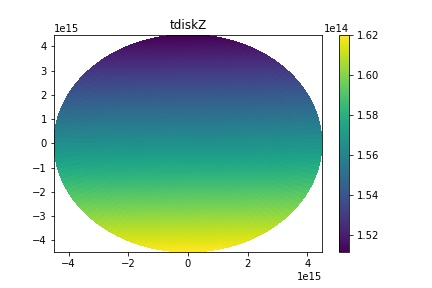
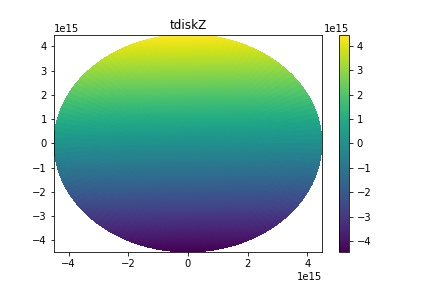
warp; switched sines and cosines to correctly project disk

diff --git a/Warp/disk_ecc_warp.py b/Warp/disk_ecc_warp.py
@@ -805,8 +805,8 @@ class Disk:
 
         #tdiskY = (Y.repeat(self.nz).reshape(self.nphi,self.nr,self.nz))*self.costhet-zsky*self.sinthet
         '''based on rotational matrix'''
-        tdiskY = (y_full_rt_grid*self.sinthet - z_full_rt_grid*self.costhet)
-        tdiskZ = (y_full_rt_grid*self.costhet - z_full_rt_grid*self.sinthet)
+        tdiskY = (y_full_rt_grid*self.costhet - z_full_rt_grid*self.sinthet)
+        tdiskZ = (y_full_rt_grid*self.sinthet - z_full_rt_grid*self.costhet)
 
         #tdiskZ = (Z.repeat(self.nz).reshape(self.nphi,self.nr,self.nz) - tdiskY*self.sinthet)*self.costhet
         print("tdiskZ shape" + str(tdiskZ.shape))
@@ -814,11 +814,14 @@ class Disk:
         print("tdiskZ max " + str(np.max(tdiskZ)))
 
         plt.plot(tdiskY[:,:,0], tdiskZ[:,:,0])
-        plt.title("sky grid")
+        plt.plot(tdiskY[:,:,10], tdiskZ[:,:,-1])
+        plt.title("sky grid 2 y by z")
         plt.show()
 
-        plt.plot(tdiskY[:,:,10], tdiskZ[:,:,10])
-        plt.title("sky grid 2")
+
+        plt.pcolor(x_full_rt_grid[:,:,0], tdiskY[:,:,0], tdiskZ[:,:,0])
+        plt.title("sky grid 3 x by y")
+        plt.colorbar()
         plt.show()
 
         if (self.thet<np.pi/2) & (self.thet>0):
@@ -839,8 +842,8 @@ class Disk:
         #if self.thet > np.arctan(self.Aout/self.zmax):
         #    tdiskZ -=(Y*self.sinthet).repeat(self.nz).reshape(self.nphi,self.nr,self.nz)
         #tdiskY = ytop - self.sinthet*S + (Y/self.costhet).repeat(self.nz).reshape(self.nphi,self.nr,self.nz)
-        tr = np.sqrt(X.repeat(self.nz).reshape(self.nphi,self.nr,self.nz)**2+tdiskY**2)
-        tphi = np.arctan2(tdiskY,X.repeat(self.nz).reshape(self.nphi,self.nr,self.nz))%(2*np.pi)
+        tr = np.sqrt(X.repeat(self.nz).reshape(self.nr,self.nphi,self.nz)**2+tdiskY**2)
+        tphi = np.arctan2(tdiskY,X.repeat(self.nz).reshape(self.nr,self.nphi,self.nz))%(2*np.pi)
 
         plt.pcolor(X, Y, tdiskZ[:,:,0])
         plt.title("tdiskZ")
@@ -894,10 +897,10 @@ class Disk:
 
         #print("index interp {t}".format(t=time.clock()-tst))
         ###### fixed T,Omg,rhoG still need to work on zpht ######
-        tT = ndimage.map_coordinates(self.tempg,[[aind],[phiind],[zind]],order=1,cval=1e-18).reshape(self.nphi,self.nr,self.nz) #interpolate onto coordinates xind,yind #tempg
+        tT = ndimage.map_coordinates(self.tempg,[[aind],[phiind],[zind]],order=1,cval=1e-18).reshape(self.nr,self.nphi,self.nz) #interpolate onto coordinates xind,yind #tempg
         #Omgx = ndimage.map_coordinates(self.Omg0[0],[[aind],[phiind],[zind]],order=1,cval=1e-18).reshape(self.nphi,self.nr,self.nz) #Omgs
         #Omg = ndimage.map_coordinates(self.Omg0,[[aind],[phiind],[zind]],order=1,cval=1e-18).reshape(self.nphi,self.nr,self.nz) #Omgy
-        tvel = ndimage.map_coordinates(self.vel,[[aind],[phiind],[zind]],order=1).reshape(self.nphi,self.nr,self.nz)
+        tvel = ndimage.map_coordinates(self.vel,[[aind],[phiind],[zind]],order=1).reshape(self.nr,self.nphi,self.nz)
 
         plt.imshow(tvel[:,:,0])
         plt.title("tvel")
@@ -909,10 +912,10 @@ class Disk:
         #trhoG = Disk.H2tog*self.Xmol/Disk.m0*ndimage.map_coordinates(self.rho0,[[aind],[phiind],[zind]],order=1,cval=1e-18).reshape(self.nphi,self.nr,self.nz)
         #trhoH2 = trhoG/self.Xmol #** not on cluster**
         #zpht = np.interp(tr.flatten(),self.rf,self.zpht).reshape(self.nphi,self.nr,self.nz) #tr,rf,zpht
-        tsig_col = ndimage.map_coordinates(self.sig_col,[[aind],[phiind],[zind]],order=1,cval=1e-18).reshape(self.nphi,self.nr,self.nz)
+        tsig_col = ndimage.map_coordinates(self.sig_col,[[aind],[phiind],[zind]],order=1,cval=1e-18).reshape(self.nr,self.nphi,self.nz)
 
-        zpht_up = ndimage.map_coordinates(self.zpht_up,[[aind],[phiind]],order=1).reshape(self.nphi,self.nr,self.nz) #tr,rf,zpht
-        zpht_low = ndimage.map_coordinates(self.zpht_low,[[aind],[phiind]],order=1).reshape(self.nphi,self.nr,self.nz) #tr,rf,zpht
+        zpht_up = ndimage.map_coordinates(self.zpht_up,[[aind],[phiind]],order=1).reshape(self.nr,self.nphi,self.nz) #tr,rf,zpht
+        zpht_low = ndimage.map_coordinates(self.zpht_low,[[aind],[phiind]],order=1).reshape(self.nr,self.nphi,self.nz) #tr,rf,zpht
         tT[notdisk] = 0
         self.sig_col = tsig_col
 
